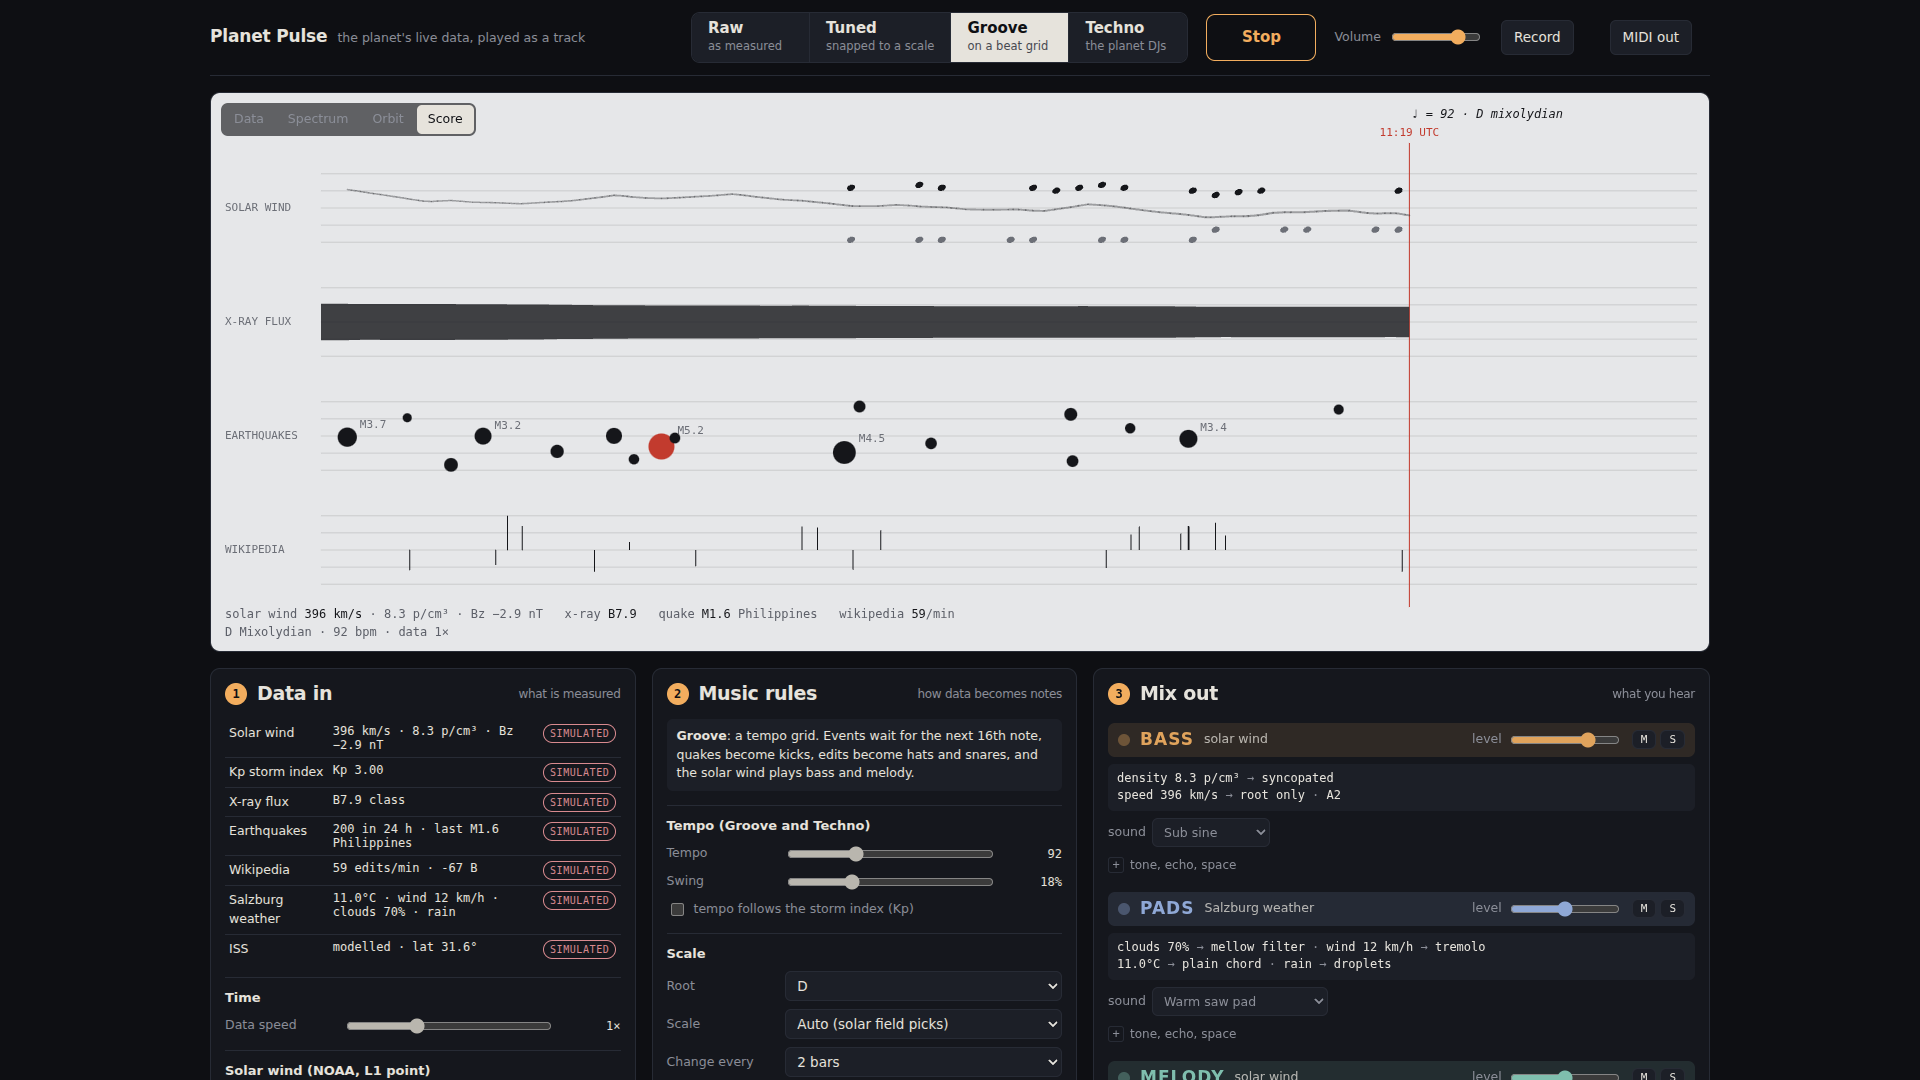
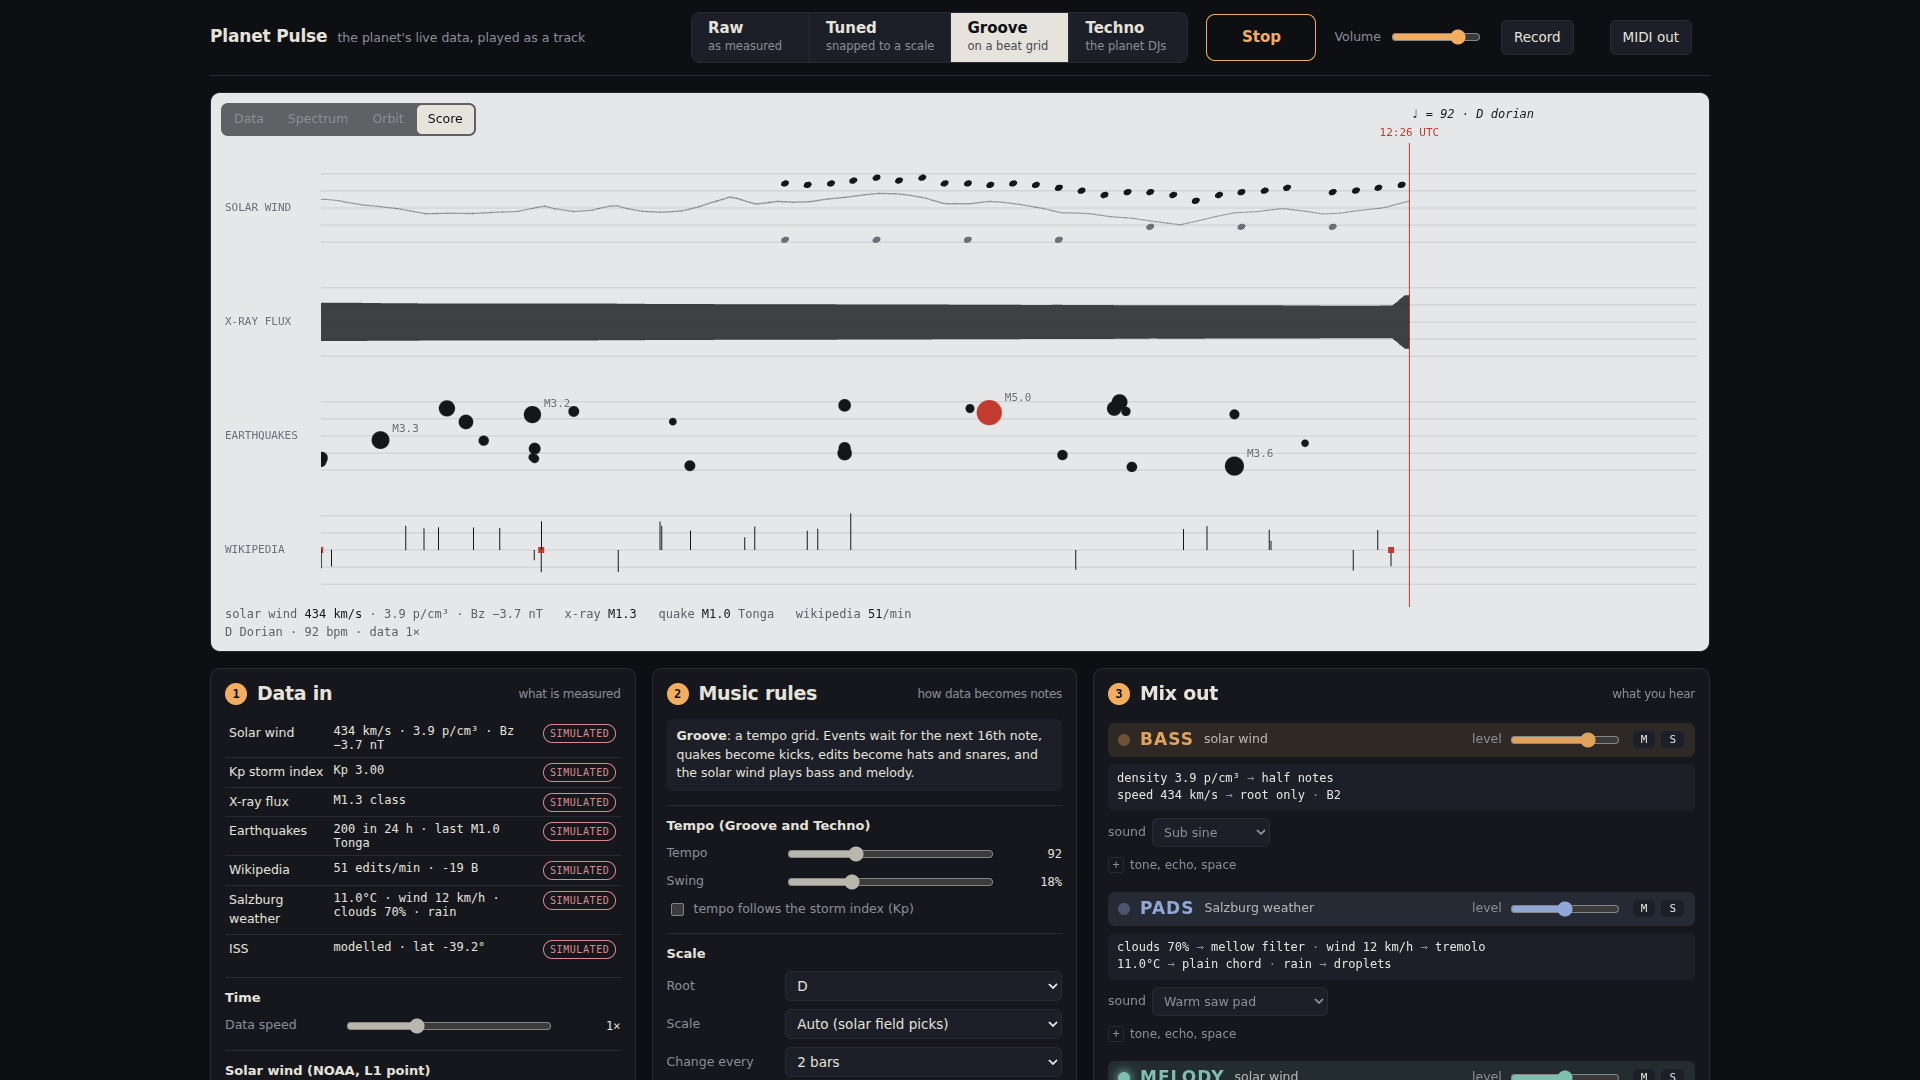
feat: refresh Planet Pulse screenshots with the new weather chart
Re-capture the thumbnail and all four mode screenshots from the updated app,
whose Data view now includes the Salzburg weather chart, and mention it in
the Raw caption.

Claude-Session: https://claude.ai/code/session_01QAuvRgddR8CEWF679wBLNh

diff --git a/src/Portfolio.tsx b/src/Portfolio.tsx
@@ -584,7 +584,7 @@ export const PLANETS=[
           {id:"the-critique",label:"The Critique",caption:"The first version worked, but my professor said you could not hear the data anymore: it was buried under the UI. I redesigned it around one question: **can the audience tell which sound is which data?**"},
           {id:"the-solution",label:"The Solution",caption:"**Four sound modes** that show what design does to data: **Raw** (the data as measured), **Tuned** (snapped to a scale), **Groove** (on a beat grid) and **Techno**, where the planet becomes the DJ, turning filters and deciding when the drop hits.\n\nA **signal-flow interface** (Data in, Music rules, Mix out) with a plain-language \"data to sound\" readout on every part.\n\n**Four visualizations**, including a view where each layer is a coloured ring drawn from its own live waveform.\n\nWestern and world scales (Chinese, Japanese, Arabic, Egyptian, Indian), **MIDI out** to play real synths in a DAW, and **audio recording**."},
           {id:"sound-modes",label:"The Four Sound Modes",imgs:[
-            {label:"Raw Mode · Data view",src:gh("ai-projects/sonified-data-melody-maker/02-mode-raw.png"),bg:"radial-gradient(ellipse at 50% 40%,#0a1a1e,#040a0c)",caption:"**Raw**: the data exactly as measured. No beat grid, no scale: pitches follow the numbers continuously and every quake or edit sounds the instant it happens.\n\nShown in the **Data** view: the live data feeds as graphs."},
+            {label:"Raw Mode · Data view",src:gh("ai-projects/sonified-data-melody-maker/02-mode-raw.png"),bg:"radial-gradient(ellipse at 50% 40%,#0a1a1e,#040a0c)",caption:"**Raw**: the data exactly as measured. No beat grid, no scale: pitches follow the numbers continuously and every quake or edit sounds the instant it happens.\n\nShown in the **Data** view: the live data feeds as graphs, including the Salzburg weather and what each reading does to the pads."},
             {label:"Tuned Mode · Spectrum view",src:gh("ai-projects/sonified-data-melody-maker/03-mode-tuned.png"),bg:"radial-gradient(ellipse at 50% 40%,#0a1a1e,#040a0c)",caption:"**Tuned**: same timing as Raw, but every pitch snaps to the scale, so it stays musical while you still hear each event as it happens.\n\nShown in the **Spectrum** view: a scrolling spectrogram of what you hear, with each event labelled."},
             {label:"Groove Mode · Score view",src:gh("ai-projects/sonified-data-melody-maker/04-mode-groove.png"),bg:"radial-gradient(ellipse at 50% 40%,#0a1a1e,#040a0c)",caption:"**Groove**: a tempo grid. Events wait for the next 16th note, quakes become kicks, edits become hats and snares, and the solar wind plays bass and melody.\n\nShown in the **Score** view: each data feed written as a musical score on the beat grid."},
             {label:"Techno Mode · Orbit view",src:gh("ai-projects/sonified-data-melody-maker/05-mode-techno.png"),bg:"radial-gradient(ellipse at 50% 40%,#0a1a1e,#040a0c)",caption:"**Techno**: the beat never stops. The data does not play the drums, it turns the knobs like a DJ: filters, layers, energy, and when the drop hits.\n\nShown in the **Orbit** view: each instrument layer drawn as a coloured ring from its own live waveform."},
